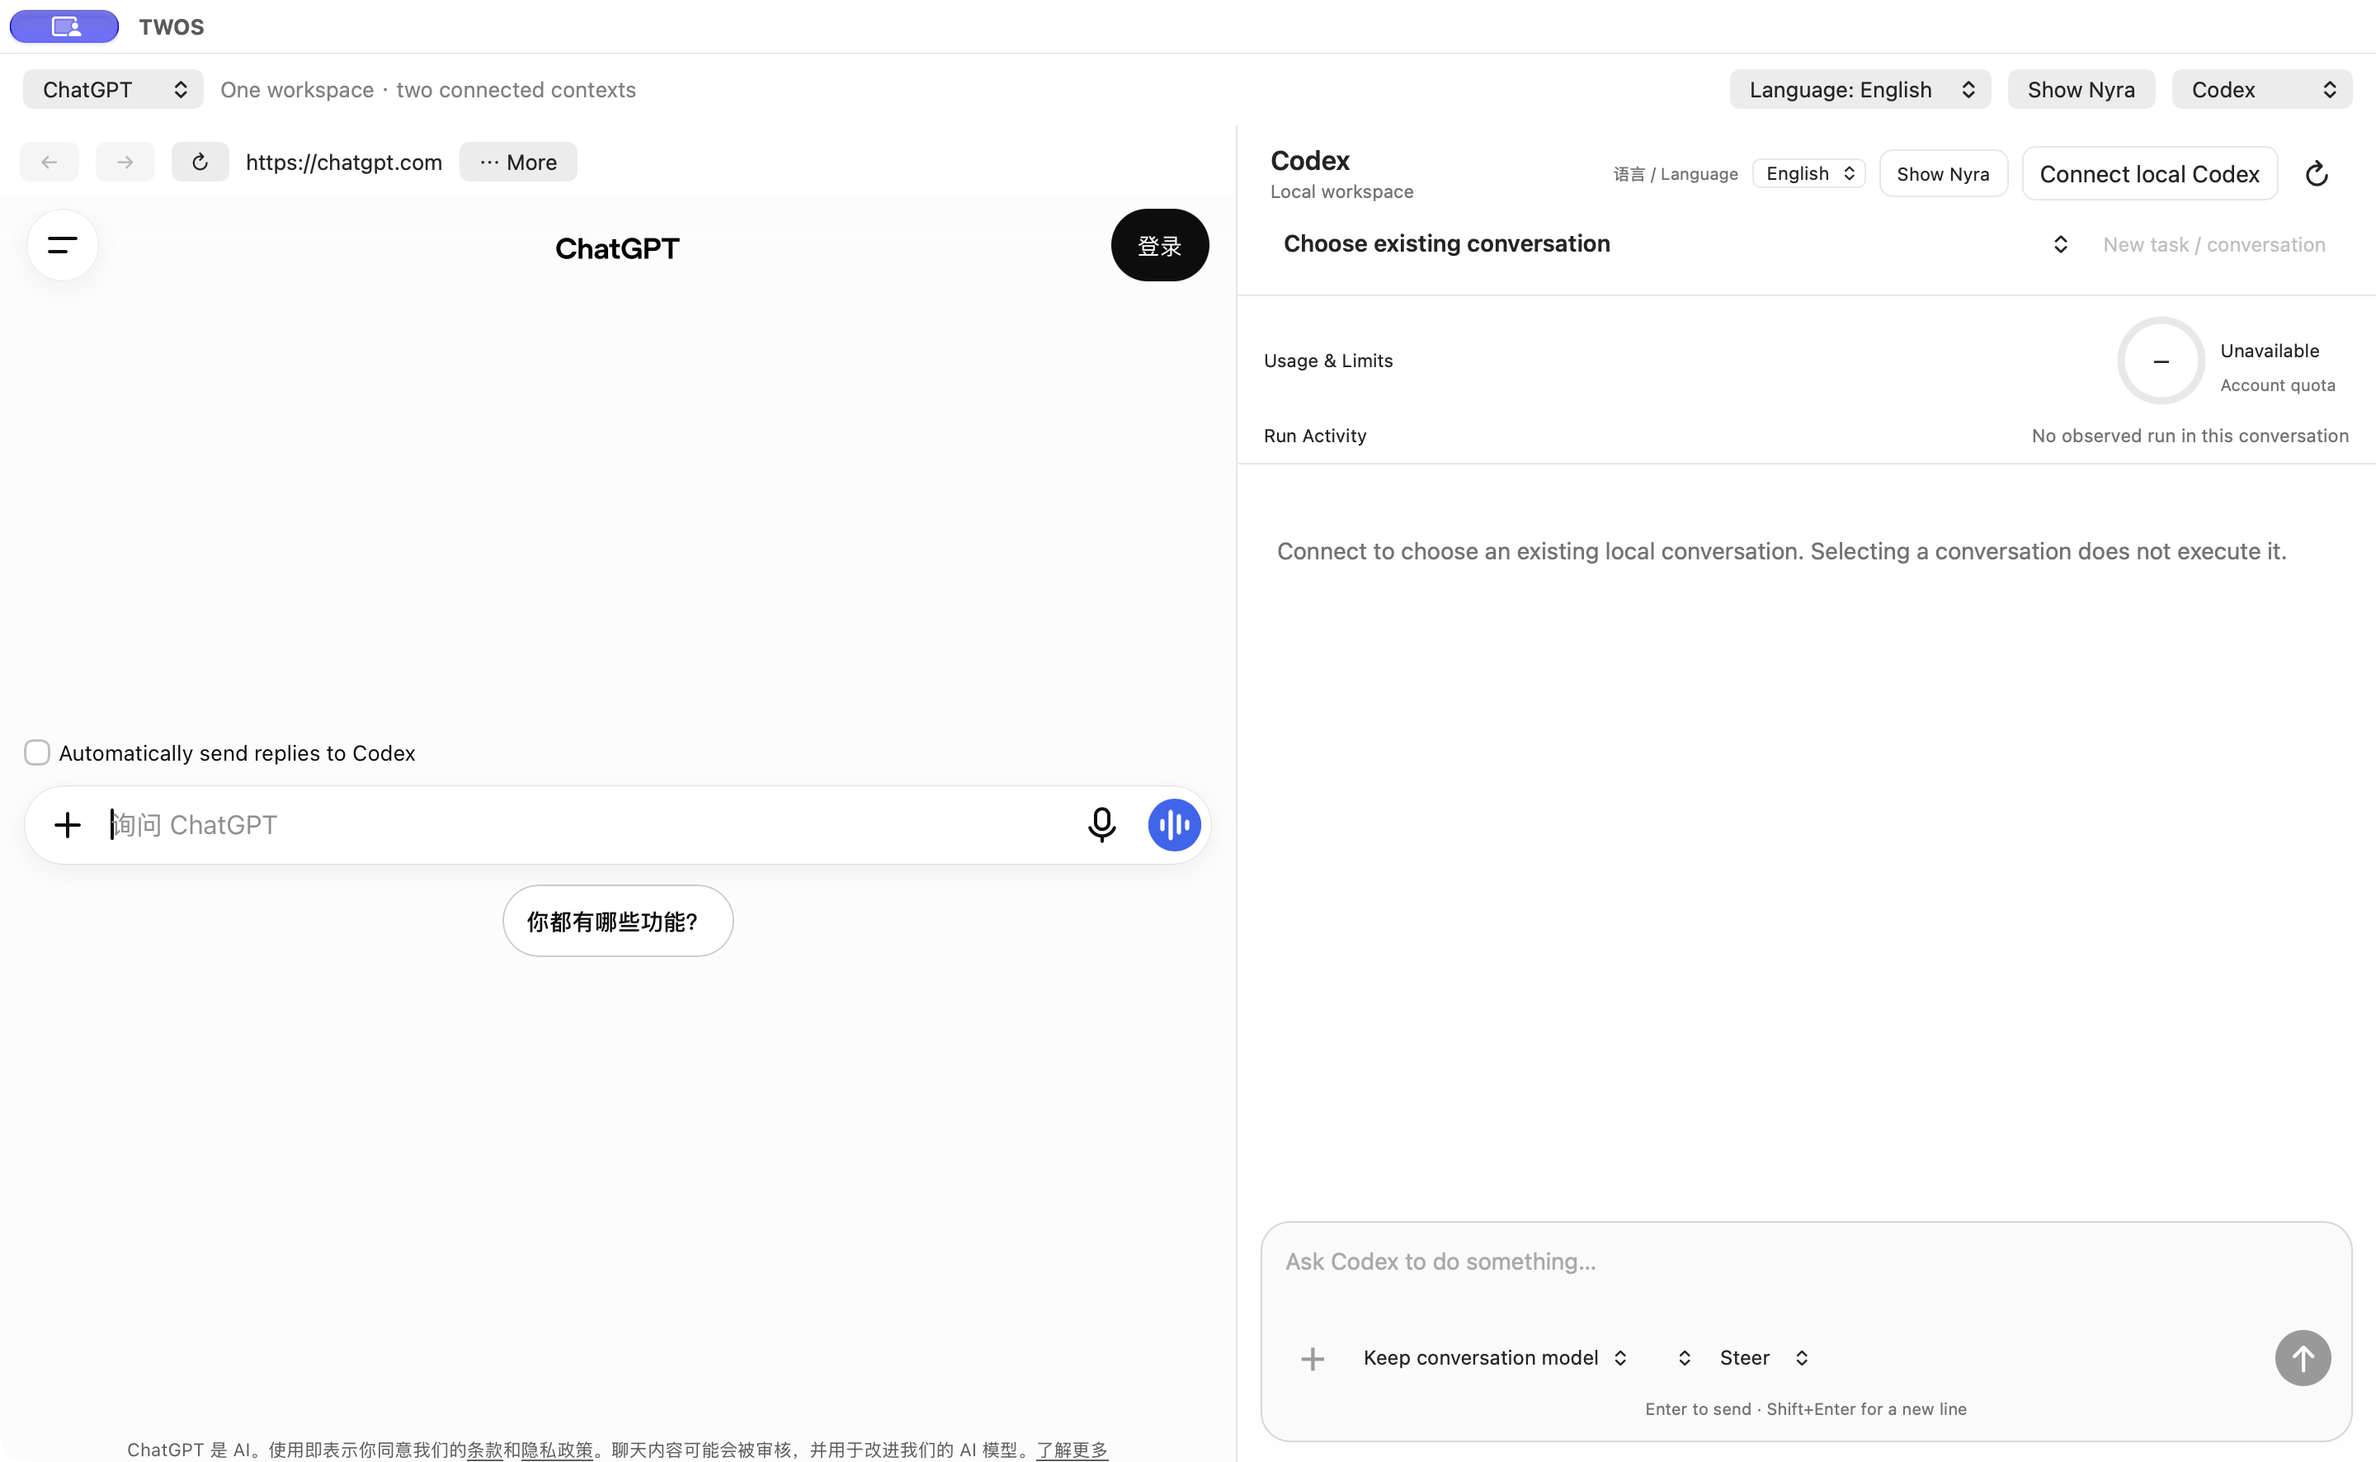
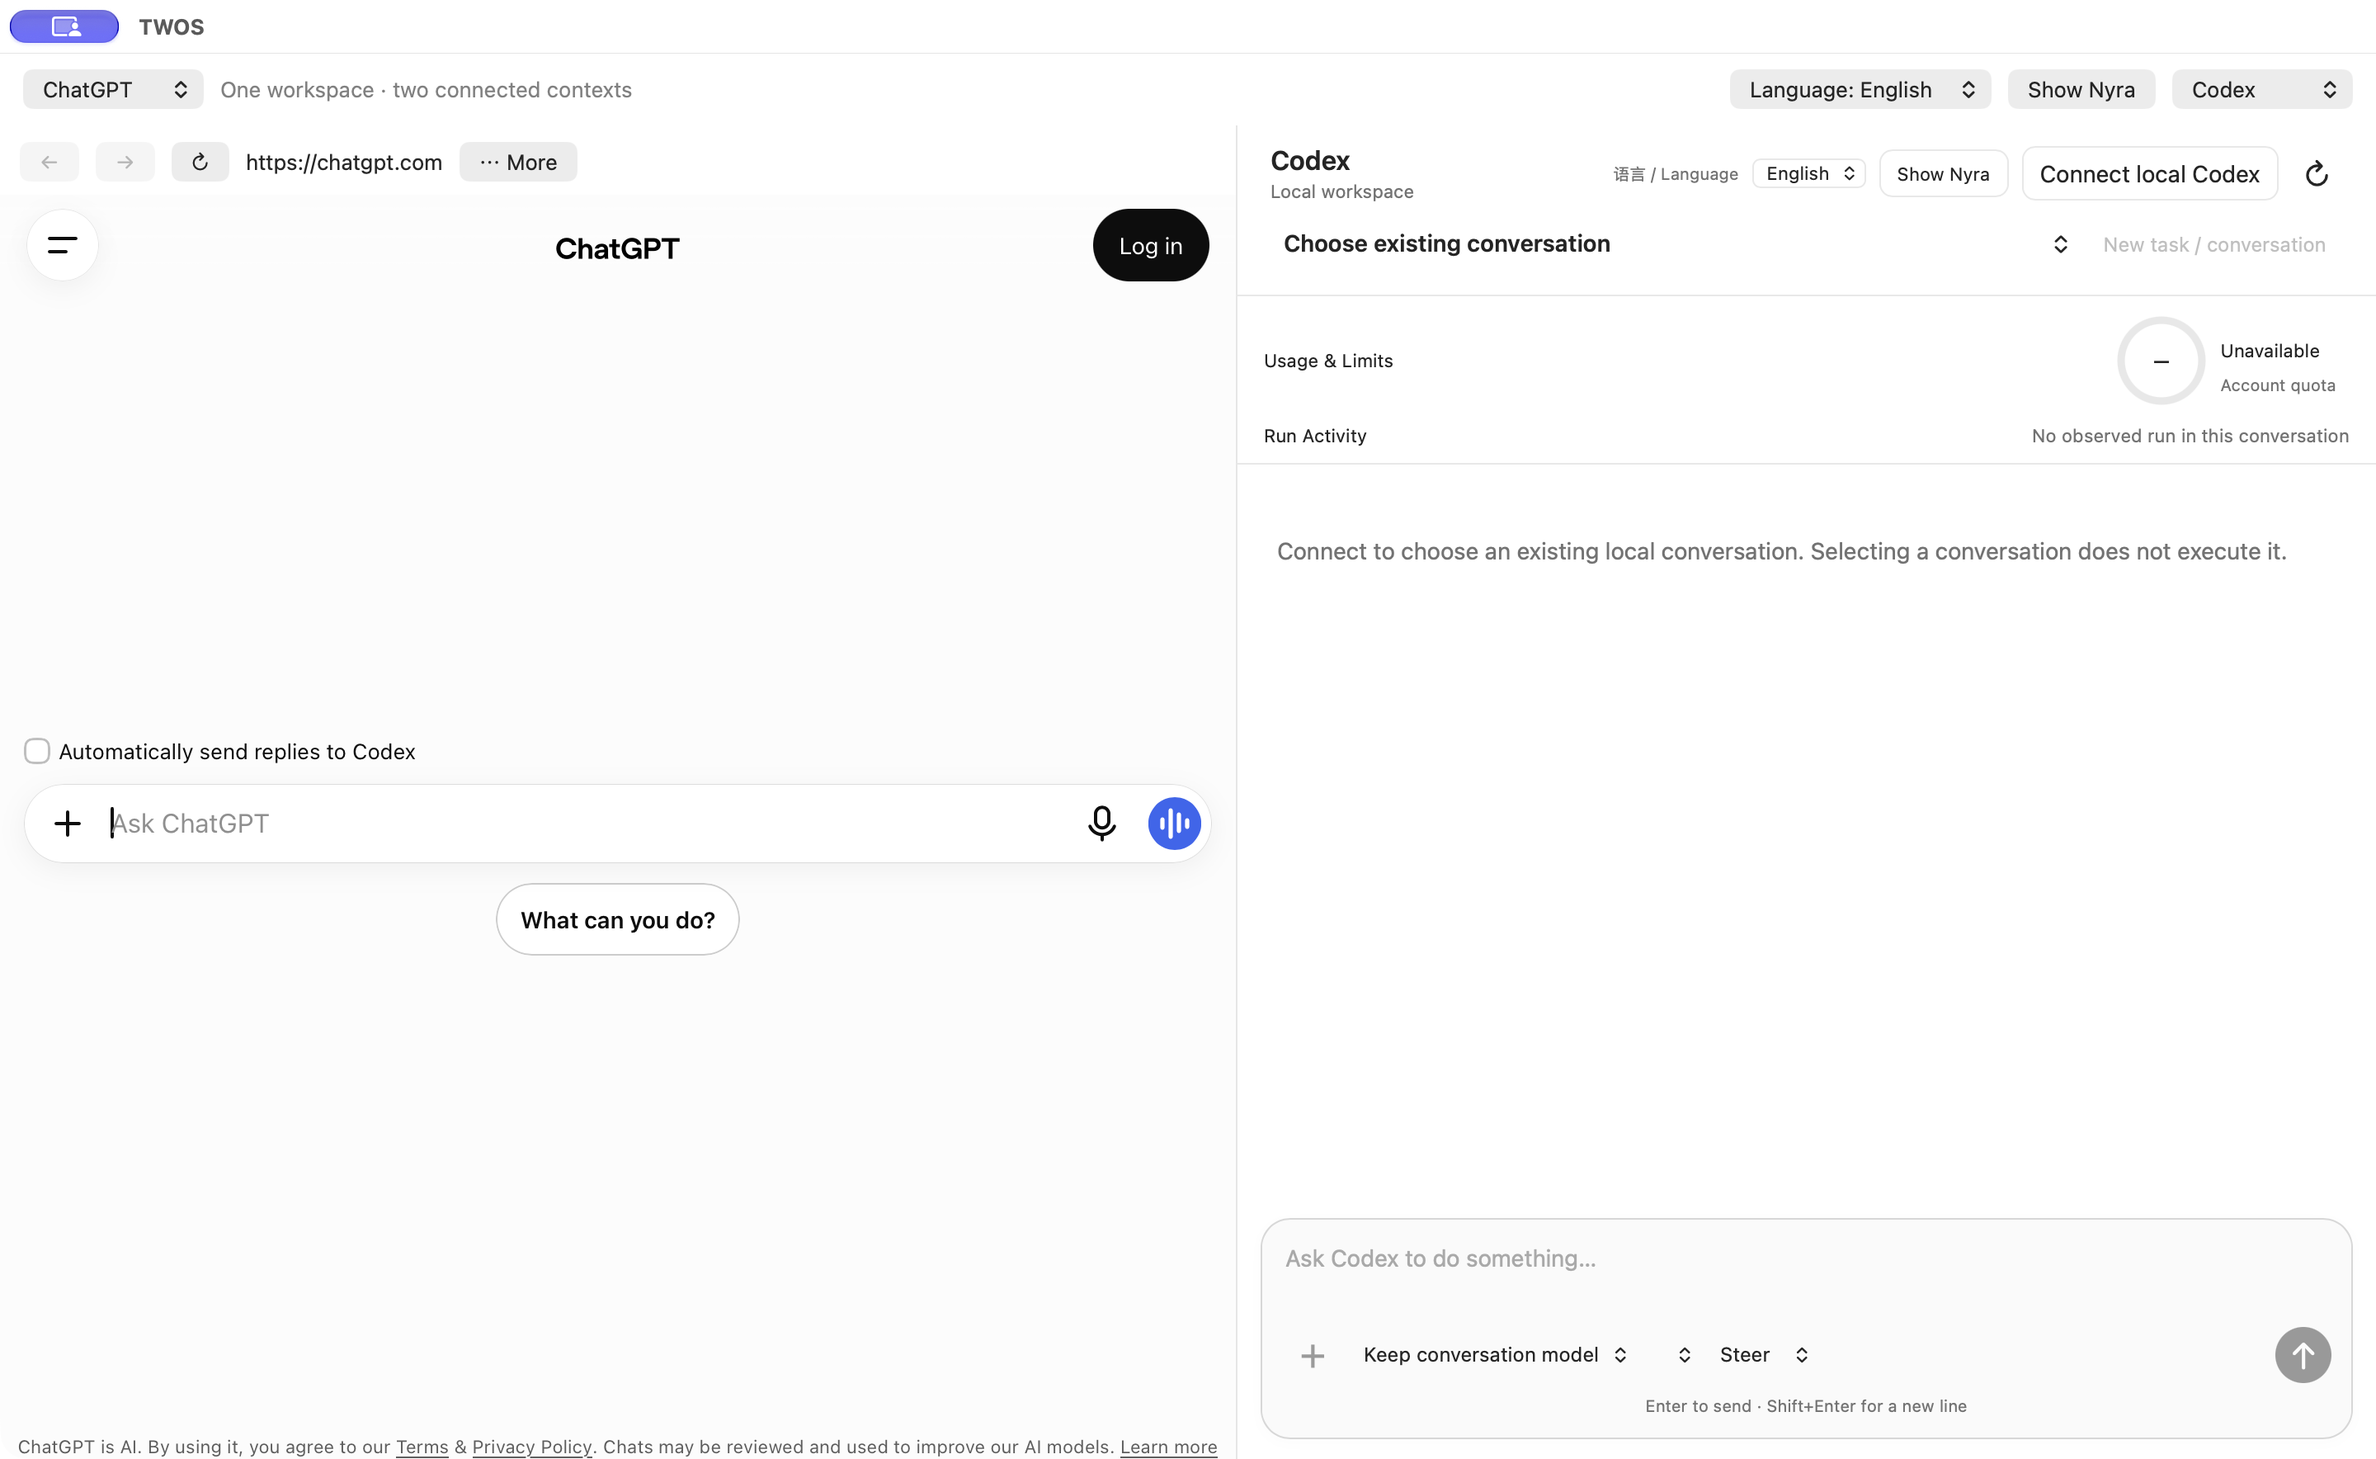
docs: show real supported service pairings on English product site

diff --git a/site/index.html b/site/index.html
@@ -5,8 +5,19 @@
 <section id="product-interface" aria-labelledby="interface-heading">
 <div class="eyebrow">Inside the app</div><h2 id="interface-heading">The TWOS workspace</h2>
 <p>Two service panes, a visible language switch, and local Codex controls in one macOS window.</p>
-<figure class="workspace-shot"><a href="./assets/product/twos-1.0.7-101.55.png" aria-label="Open the full-size TWOS workspace screenshot"><img src="./assets/product/twos-1.0.7-101.55.png" width="2880" height="1772" alt="Actual TWOS window: signed-out ChatGPT on the left; local Codex connection, usage, run activity and message composer on the right." decoding="async"></a>
-<figcaption><strong>Latest candidate preview: TWOS 1.0.7 · build 101.55.</strong> Actual macOS capture, November 6, 2026. This screenshot shows the signed-out, disconnected starting state. The public download above remains TWOS 1.0.6; the candidate is not yet a public release. TWOS language settings do not change a provider website’s language.</figcaption></figure>
+<figure class="workspace-shot"><a href="./assets/product/twos-1.0.7-101.55.png" aria-label="Open the full-size TWOS workspace screenshot"><img src="./assets/product/twos-1.0.7-101.55.png" width="2880" height="1768" alt="Actual TWOS window: signed-out ChatGPT on the left; local Codex connection, usage, run activity and message composer on the right." decoding="async"></a>
+<figcaption><strong>Latest candidate preview: TWOS 1.0.7 · build 101.55.</strong> Actual macOS capture, November 7, 2026. This screenshot shows the signed-out, disconnected starting state. The public download above remains TWOS 1.0.6; the candidate is not yet a public release. TWOS language settings do not change a provider website’s language.</figcaption></figure>
+</section>
+<section id="service-pairings" aria-labelledby="pairings-heading">
+<div class="eyebrow">Choose your pairing</div><h2 id="pairings-heading">Different services. Your combination.</h2>
+<p>Choose ChatGPT, Claude, DeepSeek or local Codex from the service selectors on either side. Use two website conversations to compare and refine ideas, or pair a website with Codex for local development. Each service keeps its own model choices, account and limits.</p>
+<p class="small">Actual TWOS 1.0.7 / 101.55 candidate captures, November 7, 2026. These are sign-in and disconnected starting screens, not examples of completed tasks. Click any image to inspect it. ChatGPT + Codex is shown above.</p>
+<div class="pair-grid"><figure class="pair-card"><a href="./assets/product/chatgpt-deepseek.png" aria-label="Open the full-size ChatGPT and DeepSeek screenshot"><img src="./assets/product/chatgpt-deepseek.png" width="2880" height="1768" alt="Actual TWOS window with ChatGPT on the left and DeepSeek on the right, before sign-in or local connection." loading="lazy" decoding="async"></a><figcaption><span class="pair-kind">Two website conversations</span><h3>ChatGPT + DeepSeek</h3><p>Compare approaches and send a selected complete reply from one conversation to the other.</p><a href="./assets/product/chatgpt-deepseek.png">View full-size screenshot</a></figcaption></figure>
+<figure class="pair-card"><a href="./assets/product/chatgpt-claude.png" aria-label="Open the full-size ChatGPT and Claude screenshot"><img src="./assets/product/chatgpt-claude.png" width="2880" height="1768" alt="Actual TWOS window with ChatGPT on the left and Claude on the right, before sign-in or local connection." loading="lazy" decoding="async"></a><figcaption><span class="pair-kind">Two website conversations</span><h3>ChatGPT + Claude</h3><p>Develop an idea with one service and ask the other to review or extend it.</p><a href="./assets/product/chatgpt-claude.png">View full-size screenshot</a></figcaption></figure>
+<figure class="pair-card"><a href="./assets/product/deepseek-codex.png" aria-label="Open the full-size DeepSeek and Codex screenshot"><img src="./assets/product/deepseek-codex.png" width="2880" height="1768" alt="Actual TWOS window with DeepSeek on the left and Codex on the right, before sign-in or local connection." loading="lazy" decoding="async"></a><figcaption><span class="pair-kind">Website + local execution</span><h3>DeepSeek + Codex</h3><p>Discuss with DeepSeek, then explicitly hand an approved task to local Codex in your confirmed workspace.</p><a href="./assets/product/deepseek-codex.png">View full-size screenshot</a></figcaption></figure>
+<figure class="pair-card"><a href="./assets/product/claude-codex.png" aria-label="Open the full-size Claude and Codex screenshot"><img src="./assets/product/claude-codex.png" width="2880" height="1768" alt="Actual TWOS window with Claude on the left and Codex on the right, before sign-in or local connection." loading="lazy" decoding="async"></a><figcaption><span class="pair-kind">Website + local execution</span><h3>Claude + Codex</h3><p>Shape a task with Claude and follow its separately authorized local implementation in Codex.</p><a href="./assets/product/claude-codex.png">View full-size screenshot</a></figcaption></figure>
+<figure class="pair-card"><a href="./assets/product/claude-deepseek.png" aria-label="Open the full-size Claude and DeepSeek screenshot"><img src="./assets/product/claude-deepseek.png" width="2880" height="1768" alt="Actual TWOS window with Claude on the left and DeepSeek on the right, before sign-in or local connection." loading="lazy" decoding="async"></a><figcaption><span class="pair-kind">Two website conversations</span><h3>Claude + DeepSeek</h3><p>Keep two perspectives side by side and choose which complete replies cross between them.</p><a href="./assets/product/claude-deepseek.png">View full-size screenshot</a></figcaption></figure></div>
+<div class="pair-boundaries"><h3>Choose how the conversation continues</h3><p><strong>Website pairs:</strong> send a complete selected reply manually, or enable automatic replies for a supported ChatGPT, Claude and DeepSeek pair. Either side can stop future sends. Login, verification, drafts and service limits can pause the exchange.</p><p><strong>Pairs with Codex:</strong> local execution requires your installed, signed-in Codex, a confirmed workspace and the applicable approval. Website auto-send does not authorize commands or file changes. Choosing a service does not start a task.</p><p class="small">These are the supported integrations shown here, not a claim that every model or arbitrary website supports automated handoff. TWOS provides its own Codex client; provider interfaces and availability can change.</p></div>
 </section>
 <section><h2>A clear handoff, from either side</h2><div class="flow"><article><div class="number">01 / DISCUSS</div><h3>Use your chosen service</h3><p>Open ChatGPT, Claude or DeepSeek and sign in directly on its official website. Each service keeps its own account, model options and limits.</p></article><article><div class="number">02 / SEND</div><h3>Choose what crosses over</h3><p>Send a complete selected reply to the paired destination. Choose attachments explicitly. Enable automatic replies only when you want the selected pair to continue.</p></article><article><div class="number">03 / FOLLOW THROUGH</div><h3>See what actually happened</h3><p>Inspect delivery details and results. With your installed local Codex and a confirmed folder, follow execution and open, view or save the files it produces.</p></article></div><p class="small">This is a workflow explanation, not a screenshot or a claim that every provider operation is always available. Login, verification, service changes and limits can pause a handoff.</p></section>
 <section id="nyra-wardrobe" aria-labelledby="wardrobe-heading"><div class="eyebrow">One companion · five outfits</div><h2 id="wardrobe-heading">Meet Nyra</h2><p>Black &amp; purple, Office, Gala, White blouse and Ruby gown. Choose a look from Nyra’s wardrobe in the app.</p><div class="wardrobe-grid"><figure><a href="./assets/product/runtime-default.png" aria-label="View Nyra in Black &amp; purple"><img src="./assets/product/runtime-default.png" width="1024" height="1536" alt="Nyra wearing Black &amp; purple" loading="lazy" decoding="async"></a><figcaption>Black &amp; purple</figcaption></figure>

diff --git a/site/assets/site.css b/site/assets/site.css
@@ -3,3 +3,6 @@
 
 /* Actual release media: no remote scripts, fonts or tracking. */
 figure{margin:0}.workspace-shot{background:var(--paper);border:1px solid var(--line);border-radius:16px;overflow:hidden;margin-top:24px}.workspace-shot>a{display:block}.workspace-shot img{display:block;width:100%;height:auto}.workspace-shot figcaption{padding:18px 22px;font-size:14px;color:var(--muted)}.wardrobe-grid{display:grid;grid-template-columns:repeat(5,minmax(0,1fr));gap:12px;margin:28px 0 18px}.wardrobe-grid figure{min-width:0;background:linear-gradient(160deg,#f1edf9,#e4dff1);border:1px solid var(--line);border-radius:14px;overflow:hidden}.wardrobe-grid a{display:block}.wardrobe-grid img{display:block;width:100%;height:auto;aspect-ratio:2/3;object-fit:contain}.wardrobe-grid figcaption{padding:12px 8px;text-align:center;font-size:14px;font-weight:650;color:#29213b}.wardrobe-grid a:focus-visible{outline-offset:-4px}@media(max-width:800px){.wardrobe-grid{grid-template-columns:repeat(3,minmax(0,1fr))}}@media(max-width:480px){.wardrobe-grid{grid-template-columns:repeat(2,minmax(0,1fr))}.workspace-shot figcaption{padding:14px}.wardrobe-grid figcaption{font-size:13px}}@media(prefers-color-scheme:dark){.wardrobe-grid figure{background:linear-gradient(160deg,#332a43,#211b2d)}.wardrobe-grid figcaption{color:var(--ink)}}
+
+/* Real supported-service combinations. No fabricated conversation content. */
+.pair-grid{display:grid;grid-template-columns:repeat(2,minmax(0,1fr));gap:22px;margin:28px 0}.pair-card{min-width:0;overflow:hidden;border:1px solid var(--line);border-radius:16px;background:var(--paper)}.pair-card>a{display:block}.pair-card img{display:block;width:100%;height:auto;aspect-ratio:2880/1768;object-fit:contain;background:#fff}.pair-card figcaption{padding:20px}.pair-card h3{margin:6px 0 10px;font-size:23px}.pair-card p{margin:0 0 14px;color:var(--muted);font-size:16px}.pair-card figcaption>a{font-size:14px}.pair-kind{font-size:12px;letter-spacing:1px;text-transform:uppercase;color:var(--accent);font-weight:700}.pair-boundaries{padding:22px 26px;background:var(--paper);border:1px solid var(--line);border-radius:16px}.pair-boundaries h3{margin-top:0}.pair-boundaries p:last-child{margin-bottom:0}@media(max-width:700px){.pair-grid{grid-template-columns:1fr;gap:18px}.pair-card figcaption,.pair-boundaries{padding:18px}}

diff --git a/site/verify_media.py b/site/verify_media.py
@@ -37,7 +37,16 @@ def main():
     document.feed(html)
     images = {x['src'].removeprefix('./'): x for x in document.images}
     assert len(images) == len(document.images), 'Duplicate media entry'
-    for item in [interface] + outfits:
+    combinations = m.get('combinations', [])
+    assert {x['id'] for x in combinations} >= {
+        'chatgpt-deepseek', 'chatgpt-claude', 'deepseek-codex', 'claude-codex'
+    }, 'Required real service combinations missing'
+    for item in combinations:
+        assert item['kind'] == 'REAL_MACOS_WINDOW_CAPTURE'
+        assert item['version'] == interface['version'] and item['build'] == interface['build']
+        assert item['source_commit'] == interface['source_commit']
+        assert item['privacy_review'] and item['state']
+    for item in [interface] + outfits + combinations:
         path = (root / item['path']).resolve()
         assert path.is_relative_to(root) and path.is_file()
         data = path.read_bytes()
@@ -53,7 +62,7 @@ def main():
         assert 'candidate preview' in html.lower() and 'not yet a public release' in html
     print(json.dumps({'result': 'STATIC_PASS', 'interface': args.interface_version,
                       'build': args.interface_build, 'outfits': len(outfits),
-                      'images': len(images), 'gui_verified': False}))
+                      'images': len(images), 'combinations': len(combinations), 'gui_verified': False}))
 
 
 if __name__ == '__main__':

diff --git a/site/RELEASE_MEDIA.md b/site/RELEASE_MEDIA.md
@@ -17,3 +17,11 @@ This is a release SOP, not a background automation. Website publication does not
 ## Current capture
 
 TWOS 1.0.7 / 101.55 is a clearly labelled candidate preview. The current download remains published TWOS 1.0.6 / 101.54. Nyra's five assets are byte-identical to published 1.0.5 / 105 and the 1.0.6 / 106 candidate. The capture shows signed-out ChatGPT and disconnected Codex; no model run was started to make this image.
+
+## Supported-service combinations — required from November 7, 2026
+
+Keep the public product page English-only. Capture actual supported combinations, including ChatGPT/DeepSeek, ChatGPT/Claude, DeepSeek/Codex and Claude/Codex; retain a current ChatGPT/Codex view and the five verified Nyra outfits. Do not manufacture conversations, quotas or successful runs for marketing. A signed-out/disconnected image must be labelled as a starting state. Inspect each saved window image before publication.
+
+Bind every combination to the exact candidate source, version, build, dimensions and image hash in the media manifest. Explain website reply exchange separately from authorized local Codex execution. Do not imply that all arbitrary models/websites support automatic exchange. Provider pages may contain their own untranslated legal labels; do not alter captured UI to conceal them.
+
+Current combination captures: final candidate 1.0.7 / 101.55, source `3e713ffa25e30c5e02219bc510dec9b7253bcf8d`, November 7, 2026. The public download remains 1.0.6. No model turn, login, task dispatch or authentication-data copy was performed to produce the new captures.
